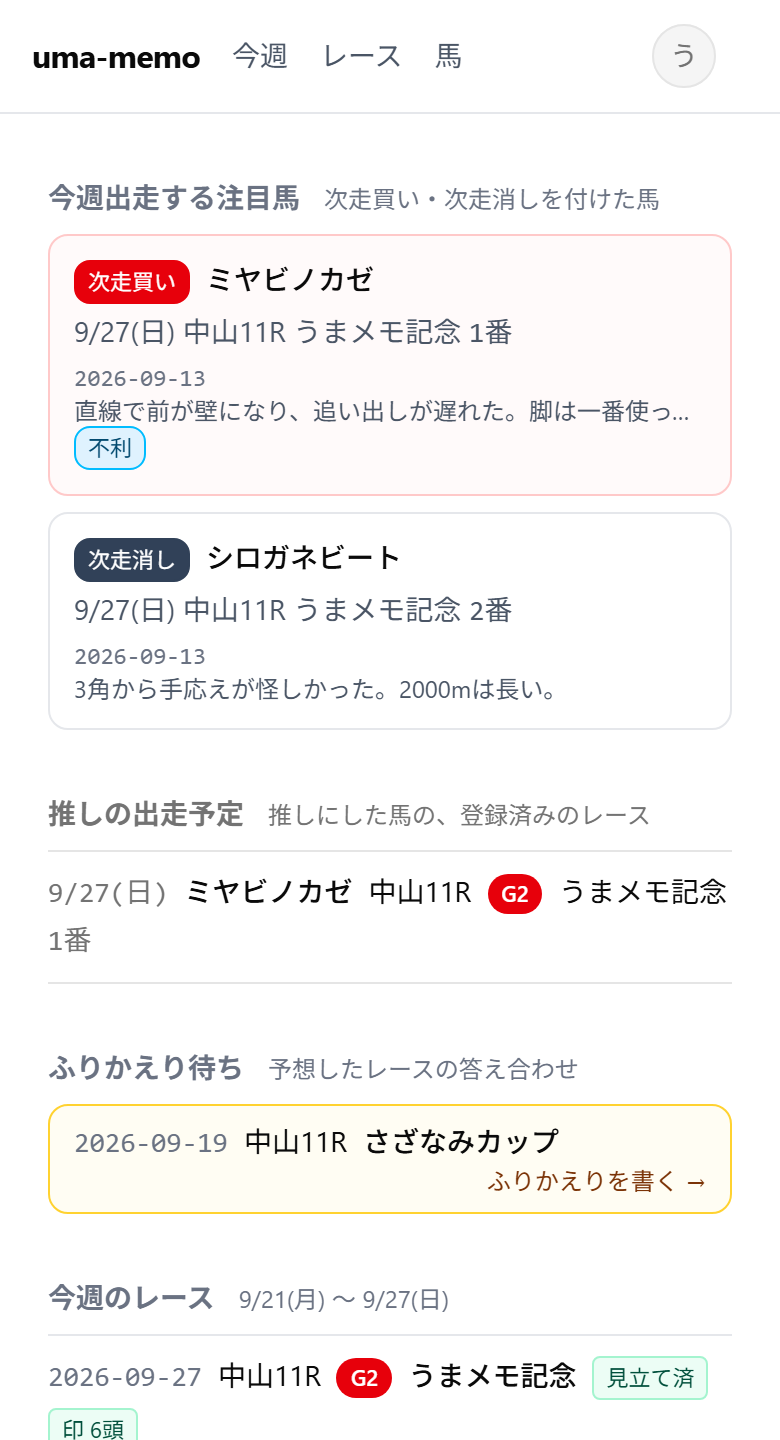
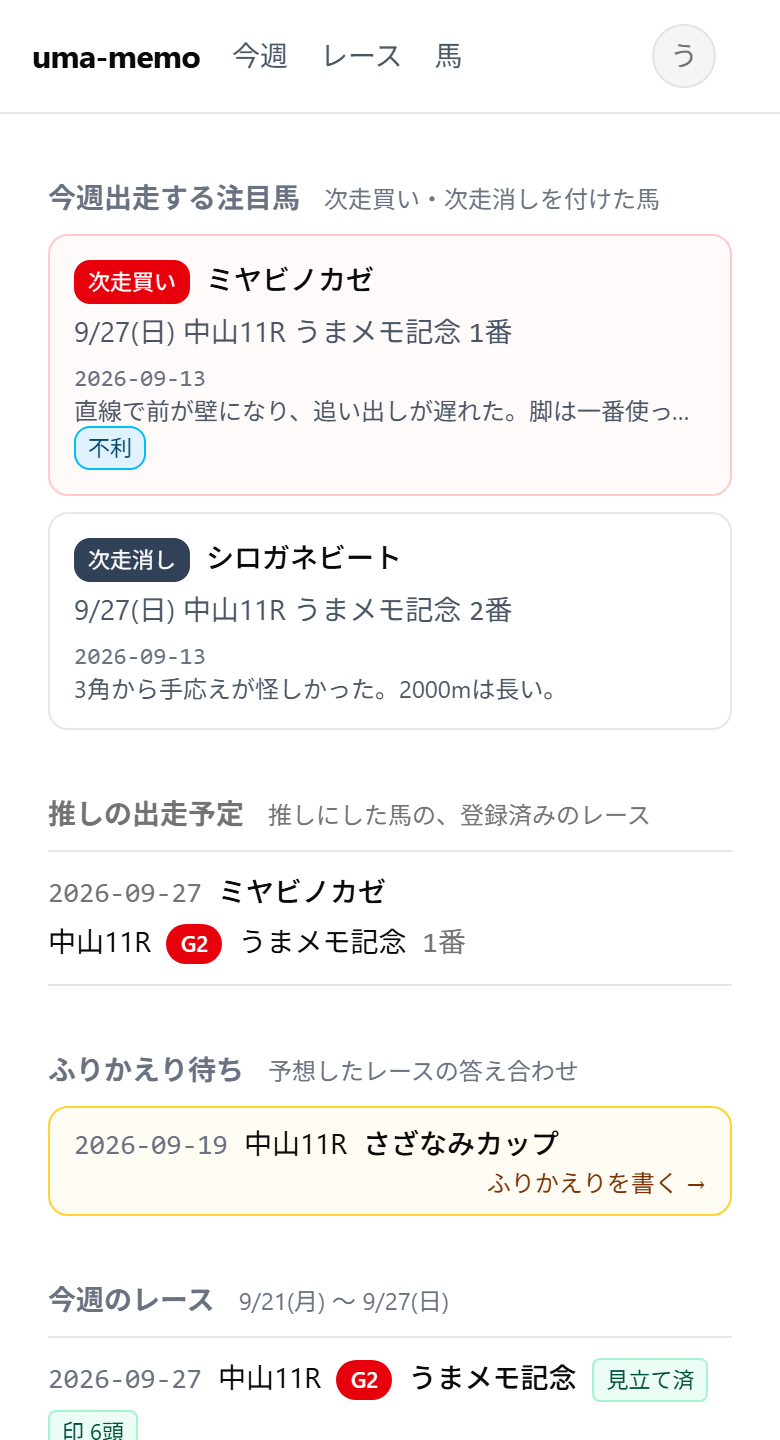
fix: 推しの出走予定に年を出し、送信中と馬名のリンクを見えるようにする
- 推しの出走予定は今週に限らないので、日付を年まで出す
- 「推しにする」を押したあと、送信中は「切り替え中…」にする
- 出走予定の無い推しの馬名に下線を付け、押せることを見せる
- 推しがいないときの案内を画面カタログと E2E に足す

diff --git a/src/routes/+page.svelte b/src/routes/+page.svelte
@@ -168,7 +168,8 @@
 					<ul class="mt-2 divide-y border-y">
 						{#each data.favorites.runs as f (f.entryId)}
 							<li class="flex flex-wrap items-baseline gap-x-2 gap-y-1 py-2.5 text-sm">
-								<span class="font-mono text-muted-foreground">{formatDateShort(f.raceDate)}</span>
+								<!-- 今週に限らない枠なので年まで出す（年をまたぐ登録があっても読み違えない）。 -->
+								<span class="font-mono text-muted-foreground">{f.raceDate}</span>
 								<a
 									href={resolve('/horses/[id]', { id: f.horseId })}
 									class="font-medium hover:underline"
@@ -196,7 +197,7 @@
 						出走予定の無い推し:
 						{#each data.favorites.idle as h, i (h.horseId)}{#if i > 0}・{/if}<a
 								href={resolve('/horses/[id]', { id: h.horseId })}
-								class="hover:underline">{h.horseName}</a
+								class="underline">{h.horseName}</a
 							>{/each}
 					</p>
 				{/if}

diff --git a/e2e/favorites.e2e.ts b/e2e/favorites.e2e.ts
@@ -32,6 +32,18 @@ test('ダッシュボードに自分の推しの出走予定だけが出る', as
 	await expect(section.getByText(FAVORITE_HORSES.others)).toHaveCount(0);
 });
 
+test('推しがいなければ、どこで推しにするかを案内する', async ({ page }) => {
+	// seed の admin には推しがいない。
+	await login(page, 'admin');
+	await page.goto('/');
+
+	await expect(favorites(page)).toContainText('の画面で「推しにする」を押すと');
+	await expect(favorites(page).getByRole('link', { name: '馬' })).toHaveAttribute(
+		'href',
+		'/horses'
+	);
+});
+
 test('馬の画面で推しにすると出走予定に並び、外すと消える', async ({ page }) => {
 	await login(page);
 	await gotoHydrated(page, `/horses/${TOGGLE_FAVORITE_HORSE_ID}`);

diff --git a/e2e/screens.ts b/e2e/screens.ts
@@ -55,6 +55,8 @@ export const SCREENS: Screen[] = [
 	{ name: 'privacy', path: '/privacy', auth: false },
 	{ name: 'terms', path: '/terms', auth: false },
 	{ name: 'dashboard', path: '/', auth: true },
+	// 推しがまだいないとき（seed の admin には推しもメモも無い）。推しの出走予定の枠に案内が出る。
+	{ name: 'dashboard-no-favorites', path: '/', auth: true, as: 'admin' },
 	{
 		// 最近のメモはページの末尾にある。一番下のメモの `⋯` を開いて、はみ出さないかを見る。
 		name: 'dashboard-note-menu',

diff --git a/src/routes/horses/[id]/+page.svelte b/src/routes/horses/[id]/+page.svelte
@@ -69,7 +69,7 @@
 			<input type="hidden" name="favorite" value={data.favorite ? '0' : '1'} />
 			<Button type="submit" variant="outline" aria-disabled={favoritePending}>
 				<Star class={data.favorite ? 'fill-current' : ''} aria-hidden="true" />
-				{data.favorite ? '推しから外す' : '推しにする'}
+				{favoritePending ? '切り替え中…' : data.favorite ? '推しから外す' : '推しにする'}
 			</Button>
 		</form>
 	</div>
